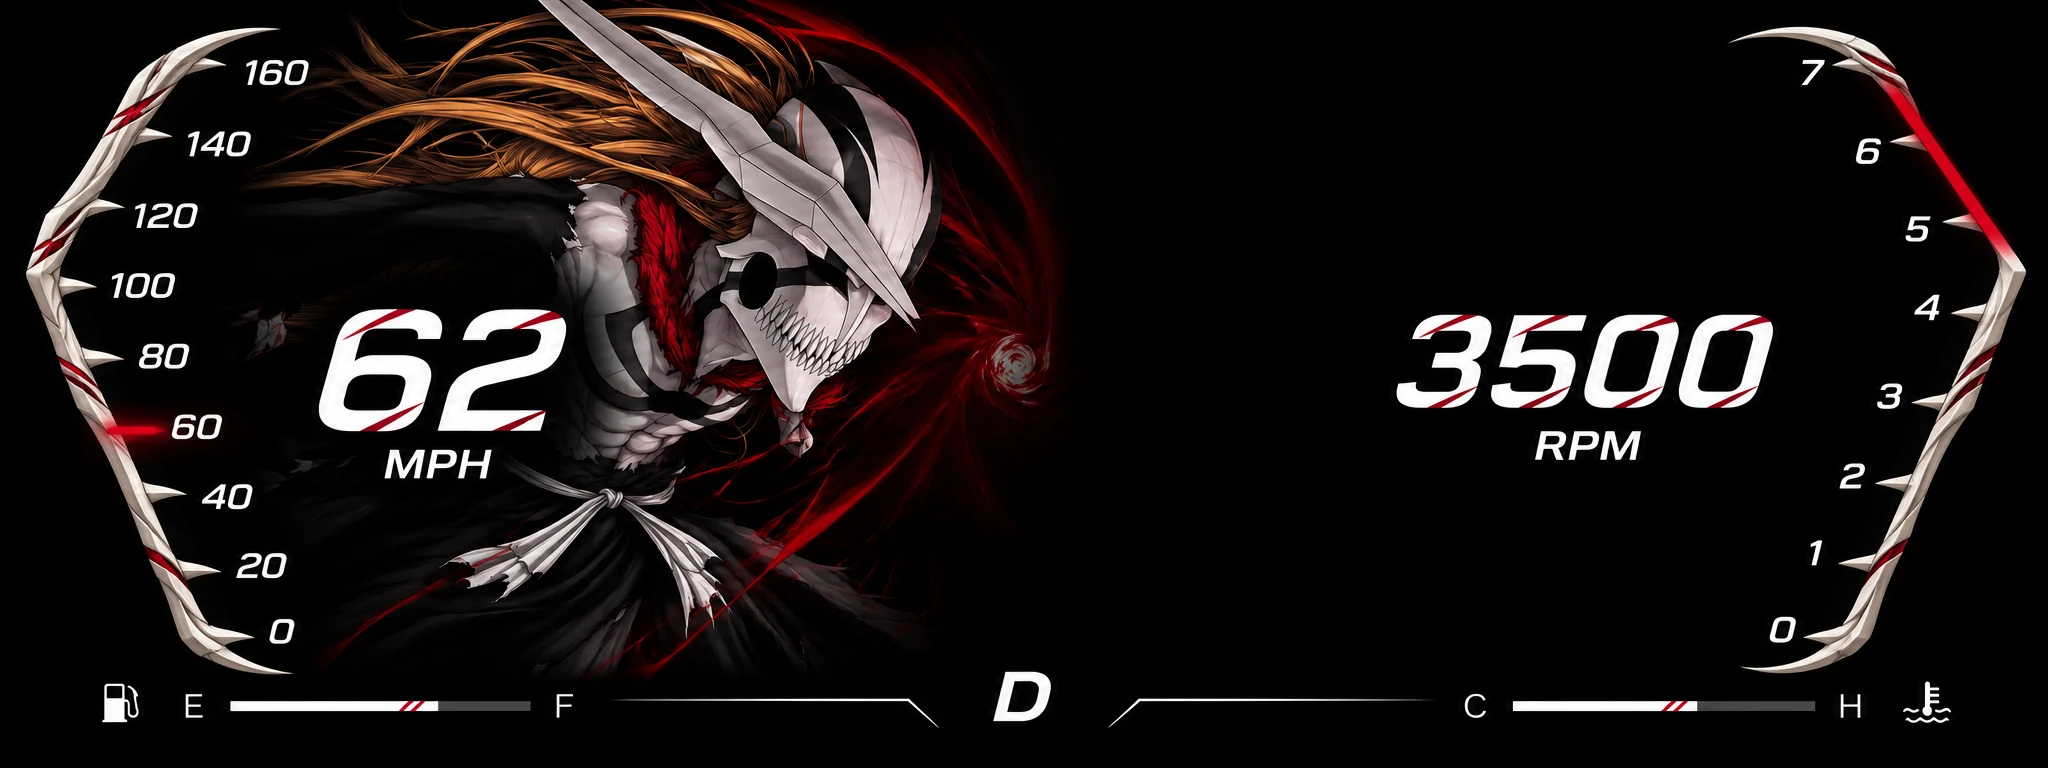
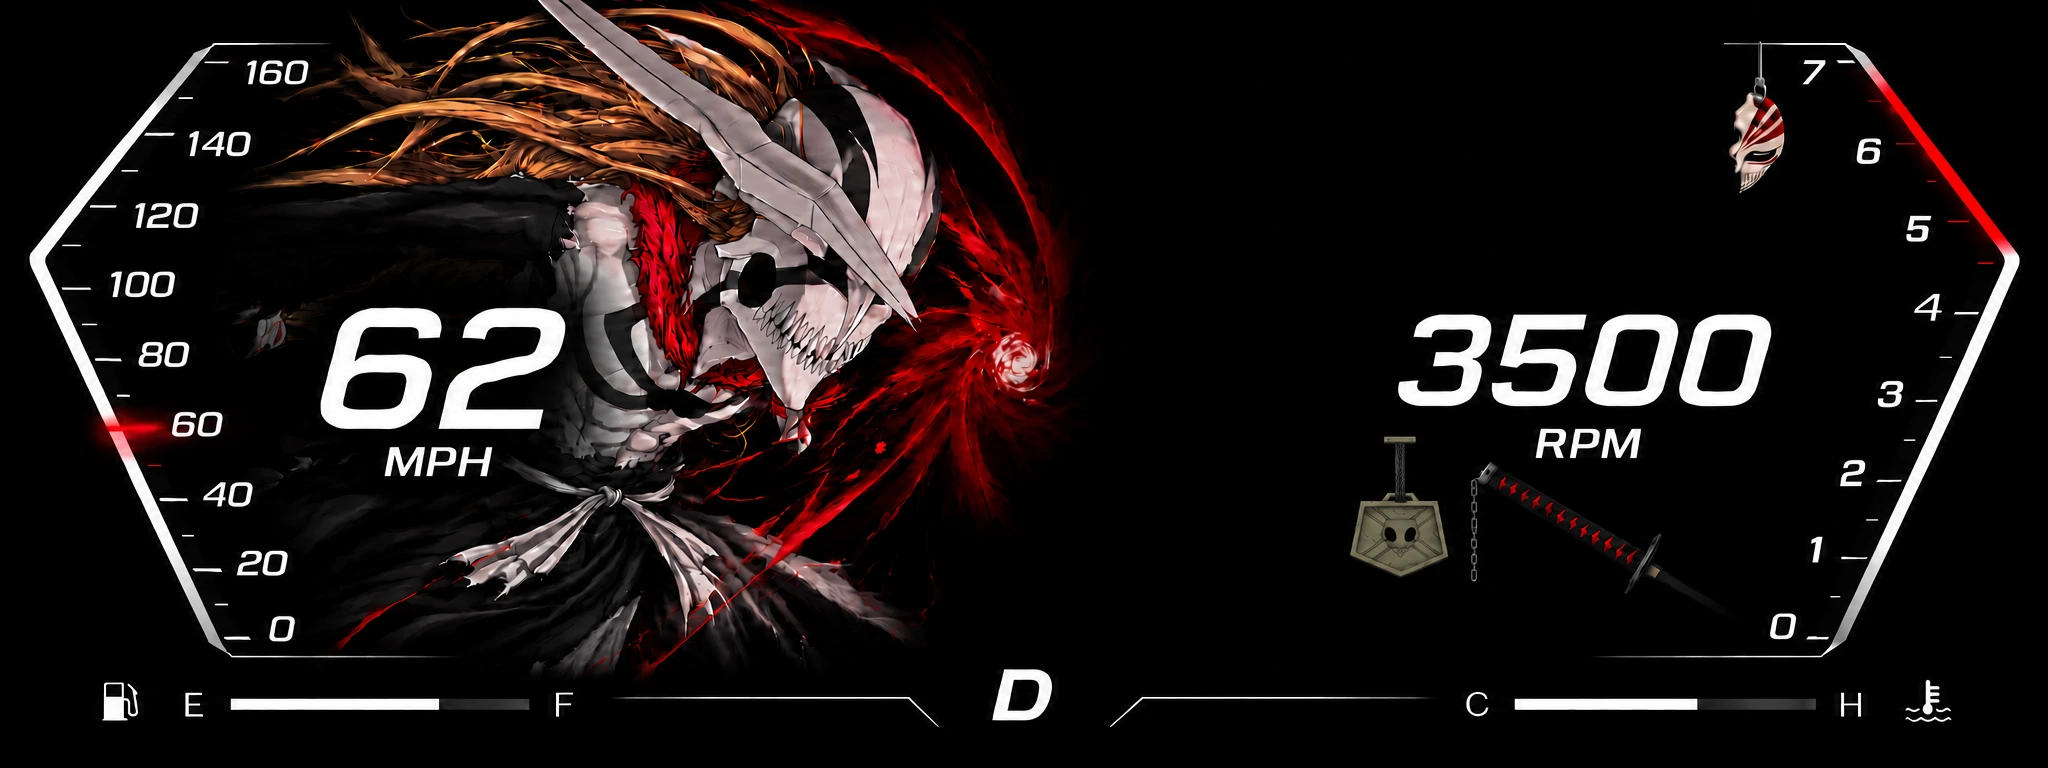
Publish approved hanging badge mockup

diff --git a/README.md b/README.md
@@ -2,8 +2,8 @@
 
 Hollow Mask is the first design concept for this standalone BMW G30 cluster project.
 
-![Hollow Mask cluster concept with Ichigo behind the MPH gauge, crimson stripes in the numerals, and bone-white fang-shaped gauge bars](hollow-mask-preview.webp)
+![Hollow Mask cluster with thin white gauges, Ichigo behind the MPH readout, and a hanging Soul Reaper badge beside Zangetsu](hollow-mask-preview.webp)
 
-Ichigo's mask enters the MPH area from the center. Crimson slashes run through the speed and RPM numerals, while bone-white ridges and fang-shaped ticks frame both gauges. Smaller crimson inlays carry the same design into the fuel and temperature bars.
+The design pairs thin white gauge lines with a broken Hollow mask charm on the upper RPM rail. Zangetsu sits beneath the RPM readout with its black chain hanging from the pommel. The olive-gray Substitute Soul Reaper badge hangs beside it on a short braided cord.
 
-This repository currently contains a static design preview. The displayed values are illustrative. An installable MGU Store app has yet to be built and tested.
+This repository contains a static mockup with illustrative gauge values. The design is awaiting implementation as an MGU Store app.
